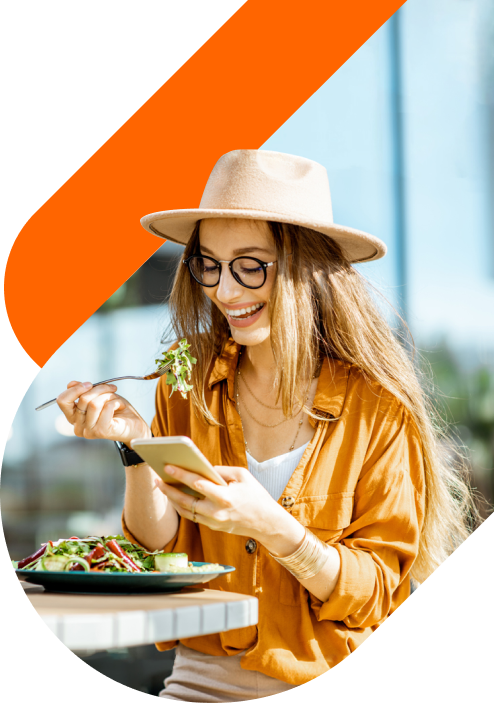
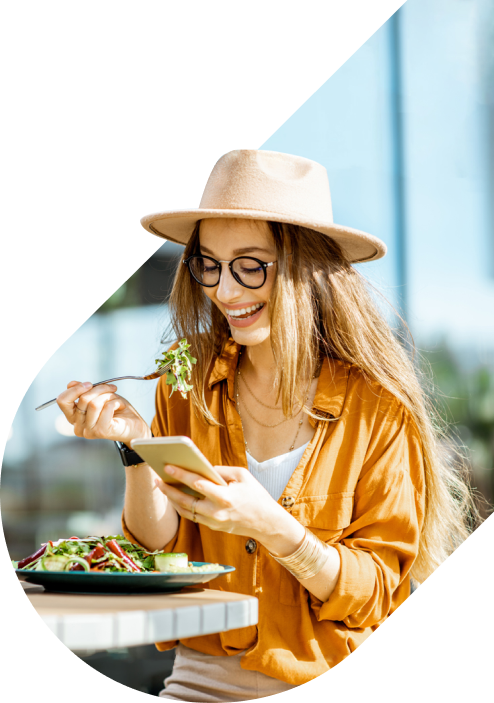
Added loading page / WIP animations on hero

Changed region(s): [[0.0, 0.0, 0.8198, 0.5377]]

diff --git a/styles/index.css b/styles/index.css
@@ -34,6 +34,7 @@ body {
   color: var(--clr-black);
   font-family: "Lato", sans-serif;
   background: var(--clr-white);
+  overflow: hidden;
 }
 
 main {
@@ -248,6 +249,22 @@ h6 {
 }
 /* #endregion */
 
+/* --- LOADING --- */
+/* #region */
+
+.loading {
+  width: 100%;
+  height: 100vh;
+  position: absolute;
+  z-index: 2000;
+  background: var(--clr-orange-500);
+  padding: 5em;
+  color: var(--clr-white);
+  transition: opacity 1s;
+}
+
+/* #endregion */
+
 /* --- HEADER --- */
 /* #region */
 
@@ -308,10 +325,27 @@ header {
   padding-top: 0;
 }
 
+.hero-content {
+  visibility: hidden;
+}
+
 .hero-image {
+  visibility: hidden;
   align-self: flex-end;
   margin-top: 0;
 }
+
+#hero-tube-svg {
+  position: absolute;
+  background-image: url(../assets/img/tube.png);
+  background-position: left 20px bottom 250px;
+  background-repeat: no-repeat;
+  width: 100%;
+  height: 100%;
+  z-index: -1;
+}
+
+
 
 #hero-1280-img {
   display: none;

diff --git a/index.html b/index.html
@@ -10,6 +10,7 @@
       href="https://fonts.googleapis.com/css2?family=Lato:wght@300;400;700;900&display=swap"
       rel="stylesheet"
     />
+    <script src="js/index.js"></script>
     <script defer src="js/testimonials.js"></script>
     <script defer src="js/whatsapp.js"></script>
     <script defer src="js/modal.js"></script>
@@ -25,6 +26,12 @@
   </head>
 
   <body>
+    <div class="loading">
+      <h3 class="animate__animated animate__flash">
+        Cargando...
+      </h3>
+    </div>
+
     <header>
       <svg id="logo-svg">
         <use xlink:href="assets/img/iconos.svg#logo"></use>
@@ -79,6 +86,9 @@
           <a href="#" class="btn btn--l btn--filled">Comenzar gratis ahora</a>
         </div>
         <div class="hero-image">
+          <div id="hero-tube-svg">
+            
+          </div>
           <img
             src="assets/img/HeroMobile.png"
             id="hero-mobile-img"

diff --git a/js/index.js b/js/index.js
@@ -1,0 +1,22 @@
+window.onload = function() {
+    init()
+};
+
+function init() {
+    setTimeout(hideLoading, 2000)
+    
+}
+
+function hideLoading() {
+    document.querySelector(".loading").style.opacity = "0";
+    document.body.style.overflow = "auto";
+    setTimeout(heroAnimation, 1000);
+}
+
+function heroAnimation() {
+    document.querySelector(".loading").style.visibility = "hidden";
+    document.querySelector(".hero-content").style.visibility = "visible";
+    document.querySelector(".hero-content").classList.add("animate__animated", "animate__fadeInDown");
+    document.querySelector(".hero-image").style.visibility = "visible";
+    document.querySelector(".hero-image").classList.add("animate__animated", "animate__fadeInTopRight");
+}
